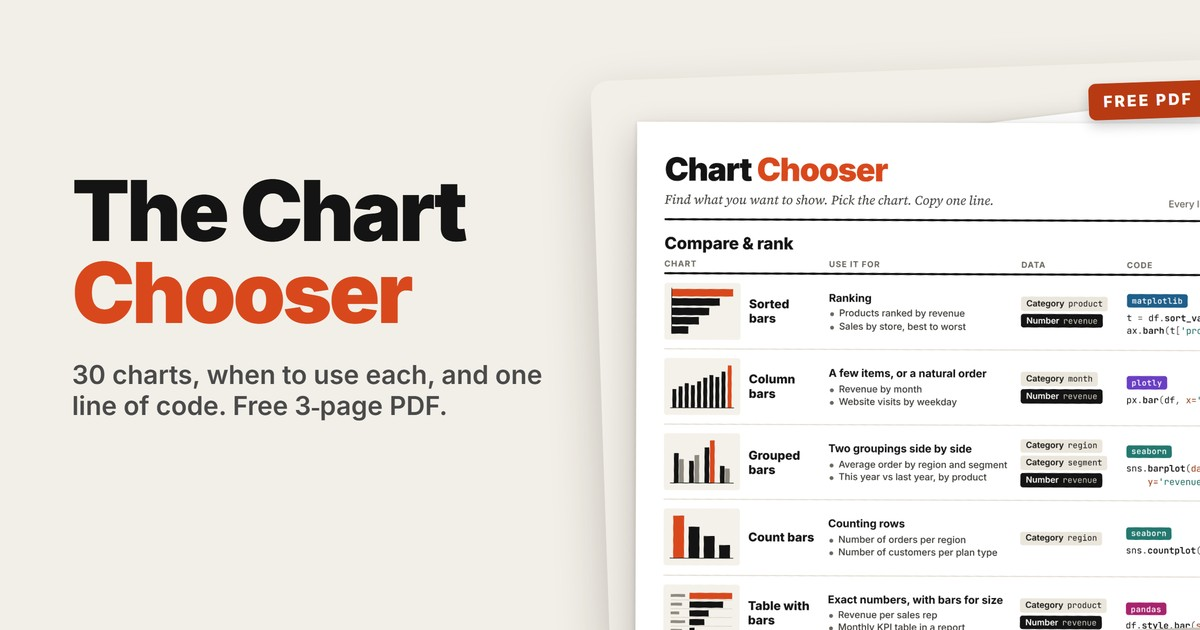
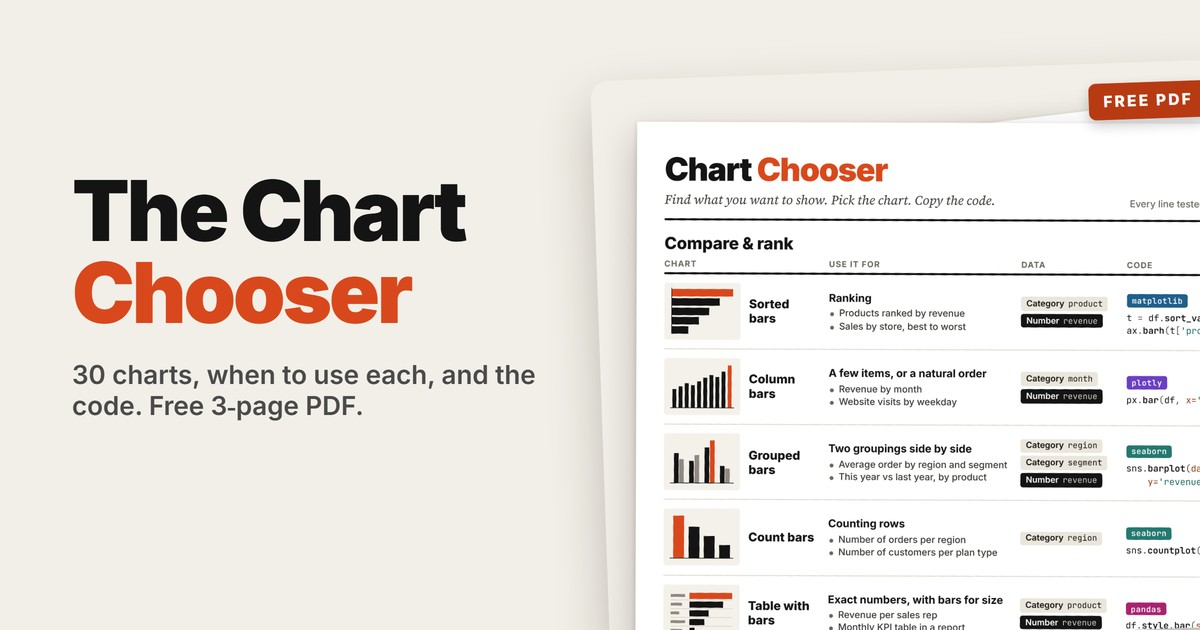
fix: code wording, updated PDF

diff --git a/chart-chooser/index.html b/chart-chooser/index.html
@@ -4,9 +4,9 @@
 <meta charset="utf-8">
 <meta name="viewport" content="width=device-width, initial-scale=1">
 <title>Get the free Chart Chooser Cheat Sheet | Datamous</title>
-<meta name="description" content="30 charts with a picture, when to use each, the data it needs and one tested line of Python code. Three printable pages. Free download.">
+<meta name="description" content="30 charts with a picture, when to use each, the data it needs and tested Python code to draw it. Three printable pages. Free download.">
 <meta property="og:title" content="Free Chart Chooser Cheat Sheet (3-page PDF)">
-<meta property="og:description" content="30 charts: when to use each, the data it needs, and one line of code in matplotlib, seaborn, plotly or pandas.">
+<meta property="og:description" content="30 charts: when to use each, the data it needs, and short code in matplotlib, seaborn, plotly or pandas.">
 <meta property="og:image" content="https://datamous.github.io/chart-chooser/og.jpg">
 <meta property="og:url" content="https://datamous.github.io/chart-chooser/">
 <meta name="twitter:card" content="summary_large_image">
@@ -28,7 +28,7 @@
 <div class="lp-hero">
   <div class="lp-copy">
     <h1>The right chart for what you want to show, on <span>three pages</span>.</h1>
-    <p class="lead">The free <strong>Chart Chooser Cheat Sheet</strong>: 30 charts, each with a small picture, what to use it for, the data it needs, and one tested line of code in matplotlib, seaborn, plotly or pandas.</p>
+    <p class="lead">The free <strong>Chart Chooser Cheat Sheet</strong>: 30 charts, each with a small picture, what to use it for, the data it needs, and short, tested code in matplotlib, seaborn, plotly or pandas.</p>
 
     <div class="signup" id="signup">
       <form class="signup-form" action="https://app.kit.com/forms/10077352/subscriptions" method="post" novalidate>
